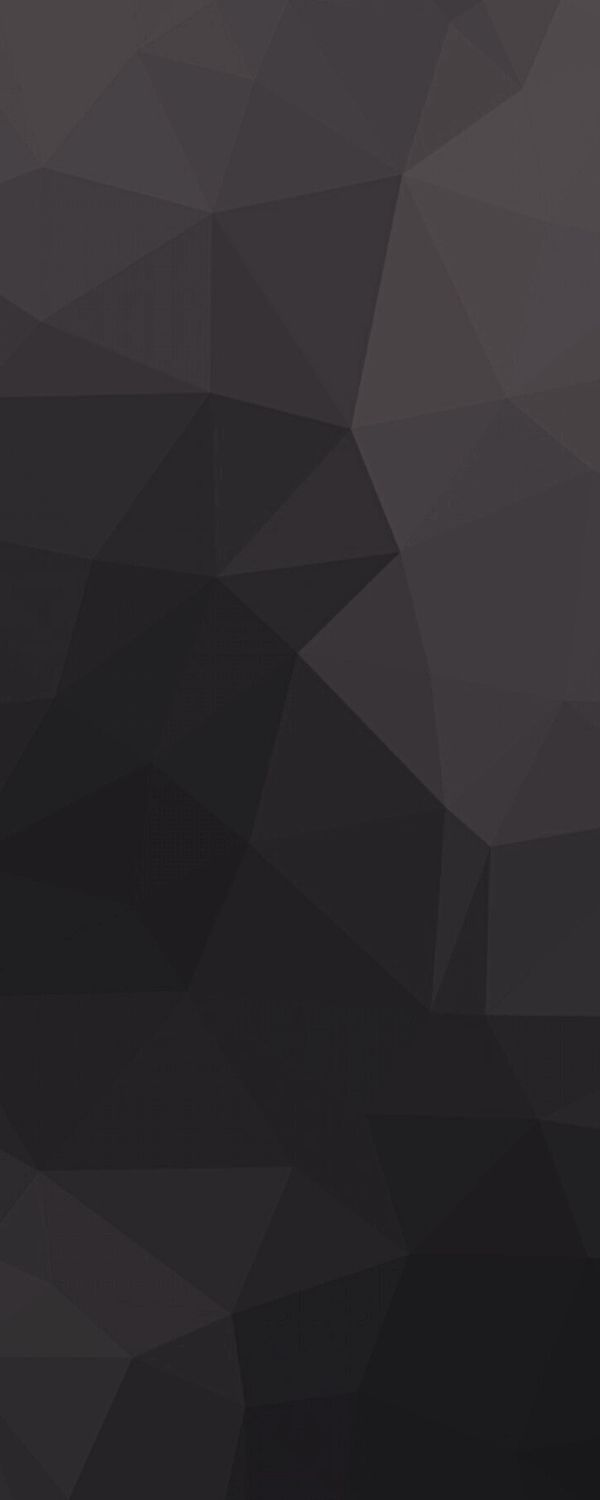
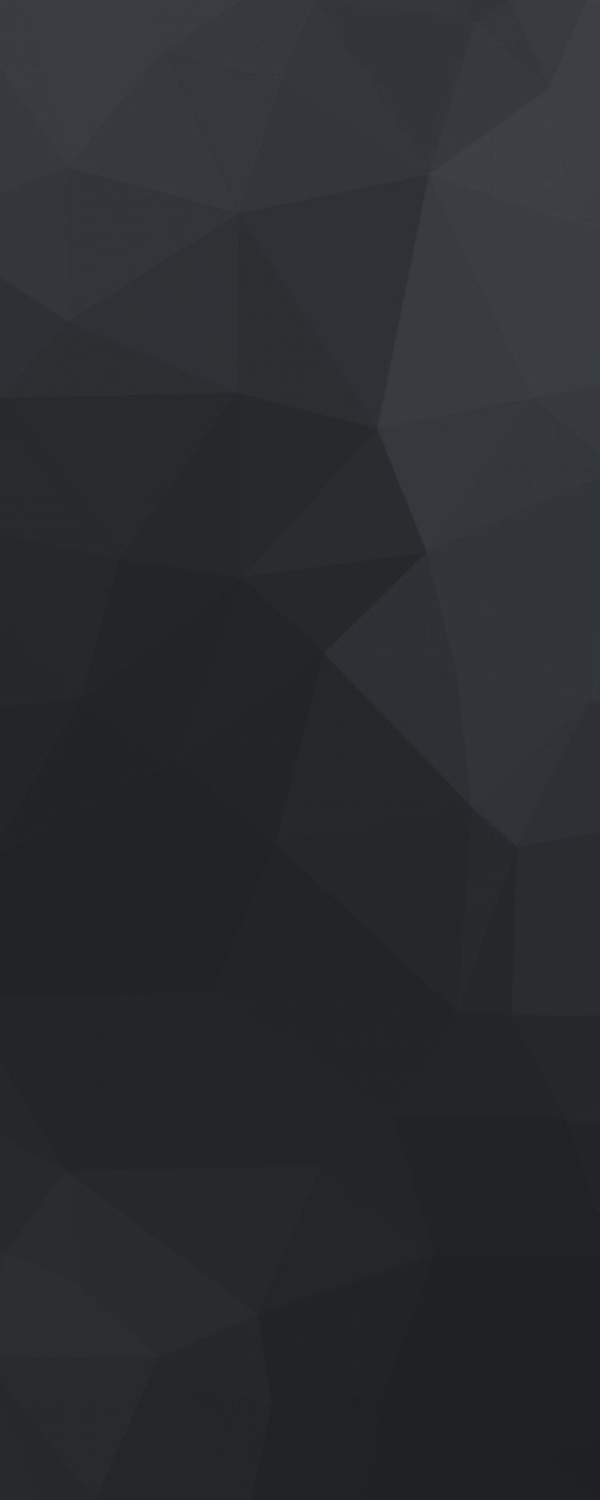
Atualizações de Style

Changed region(s): [[0.57, 0.092, 0.72, 0.3987], [0.87, 0.0307, 0.9, 0.0613]]

diff --git a/style.css b/style.css
@@ -6,15 +6,16 @@
 
 :root{
     --bg--url: url(./imagens/background.png);
-    --text--color: rgb(0, 0, 0);
-    --border--list: 2px solid black;
-    --border--hover: 3.5px solid black;
+    --text--color: white;
+    --border--list: 2px solid #ffffffd5;
+    --border--hover: 3.5px solid #ffffffd5;
     --bg--list: rgba(236, 97, 183, 0.322);
-    --bg--hover: #f7daed;
+    --bg--hover: #ff009dc0;
     --text--shadow: 2px 2px 5px #ff009dc0;
-    --bg--icons: #f7daed; 
+    --bg--icons: #ff009dc0; 
     --switch-bg-url: url(./assets/sun.svg);
     --bg-span-hover: rgba(236, 97, 183, 0.322);
+    --box--shadow:4px 4px 8px rgb(0, 0, 0);
 }
 
 .dark{
@@ -22,12 +23,13 @@
     --text--color: white;
     --border--list: 2px solid #ffffffd5;
     --border--hover: 3.5px solid #ffffffd5;
-    --bg--list: #a72073c0;
-    --bg--hover: #ff009dc0;
-    --text--shadow: 2px 2px 5px white;
-    --bg--icons: #ff009dc0; 
+    --bg--list: #242323c0;
+    --bg--hover: rgba(236, 97, 183, 0.322);
+    --text--shadow: 2px 2px 5px rgb(0, 0, 0);
+    --bg--icons: rgba(236, 97, 183, 0.322); 
     --switch-bg-url: url(./assets/moon-stars.svg);
-    --bg-span-hover: #a72073c0;;
+    --bg-span-hover: #242323c0;
+    --box--shadow: 4px 4px 8px rgb(0, 0, 0);
 }
 
 body{
@@ -62,7 +64,7 @@ body *{
     position: relative;
     width: 64px;
     margin: 4px auto;
-    margin-bottom: 10px;
+    margin-bottom: 16px;
 }
 
 #switch button{
@@ -112,7 +114,7 @@ ul li a{
     background: var(--bg--list);
     border: var(--border--list);
     border-radius: 8px;
-
+    box-shadow: var(--box--shadow);
 
     backdrop-filter: blur(4px);
     -webkit-backdrop-filter: blur(4px);

diff --git a/index.html b/index.html
@@ -1,5 +1,5 @@
 <!DOCTYPE html>
-<html lang="pt-br" class="light">
+<html lang="pt-br" class="">
 <head>
     <link rel="preconnect" href="https://fonts.googleapis.com">
     <link rel="preconnect" href="https://fonts.gstatic.com" crossorigin>
